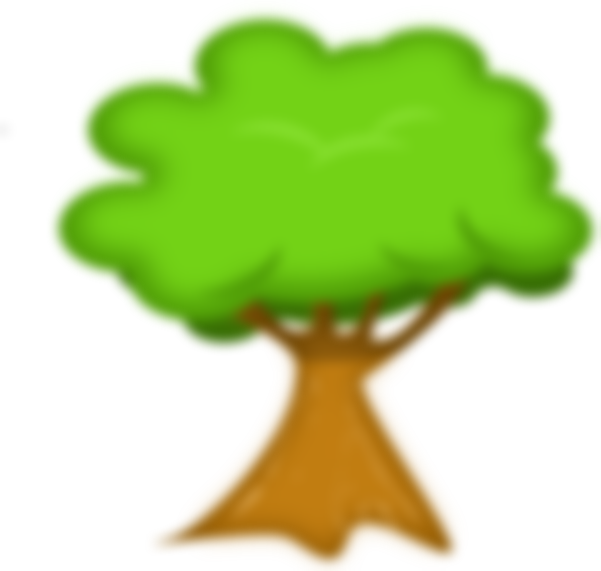
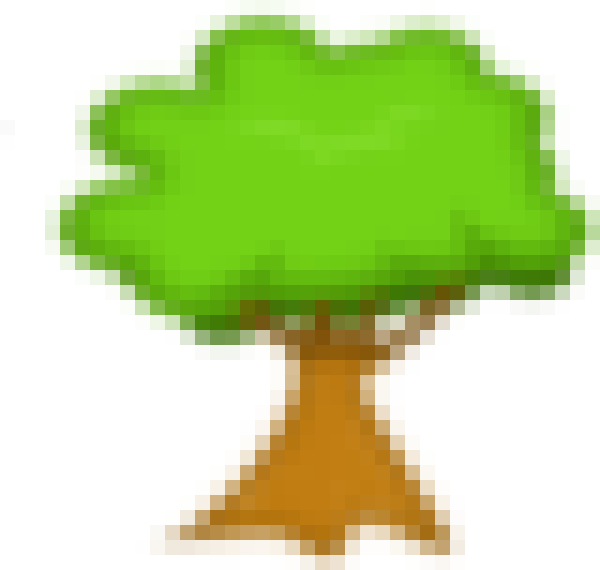
Milestone 3: -Fixed level 3 fireball. Made flags into portals and level 3 flag into a ship. Trees more pixelized.

Changed region(s): [[0.06, 0.0, 1.0, 1.0]]

diff --git a/src/game/GameView.java b/src/game/GameView.java
@@ -18,6 +18,7 @@ public class GameView extends UserView {
     private final Image gheart;
     private final Image ftree;
     private final Image berg;
+    private final Image rock;
     private final Image progress;
     private final Image bosshp1;
     private final Image bosshp2;
@@ -46,6 +47,7 @@ public class GameView extends UserView {
         gheart = new ImageIcon("data/gheart.png").getImage();
         ftree = new ImageIcon("data/ftree.png").getImage();
         berg = new ImageIcon("data/iceberg.png").getImage();
+        rock = new ImageIcon("data/rock.png").getImage();
         progress = new ImageIcon("data/progress.gif").getImage();
         //leaves = new ImageIcon("data/speed.gif").getImage();
         bosshp1 = new ImageIcon("data/bosshp1.png").getImage();
@@ -87,7 +89,8 @@ public class GameView extends UserView {
             g.drawImage(berg, 800, 300, 410, 500, this);
 
         } else if (Game.getLevelBackground() == 3) {
-
+            g.drawImage(rock, -200, 300, 410, 500, this);
+            g.drawImage(rock, 900, 300, 410, 500, this);
         }
 
         if (player.getPlayerHealth() == 3) {

diff --git a/src/game/Level3.java b/src/game/Level3.java
@@ -216,12 +216,10 @@ public class Level3 extends GameLevel
             death = new DeathBall(this);
         }
         if (spawn == 950) {
-            Shape shipShape = new BoxShape(7, 2);
-            StaticBody ship = new StaticBody(this, shipShape);
-            ship.setPosition(new Vec2(18f, -8f));
-            ship.addImage(new BodyImage("data/shipRight.png", 10));
-            ship.setAlwaysOutline(true);
-            getFlag().setPosition(new Vec2(18, -5));
+
+            getFlag().removeAllImages();
+            getFlag().setPosition(new Vec2(16, -5));
+            getFlag().addImage(new BodyImage("data/shipRight.png", 7));
         }
 
 

diff --git a/src/dynamicBody/enemies/DeathBall.java b/src/dynamicBody/enemies/DeathBall.java
@@ -6,7 +6,7 @@ import listeners.collisions.MeteorCollision;
 import org.jbox2d.common.Vec2;
 
 public class DeathBall extends Walker {
-    private static final Shape meteorShape = new BoxShape(40,25);
+    private static final Shape meteorShape = new BoxShape(40,5);
     private static final BodyImage image =
             new BodyImage("data/deathBall.gif", 50);
 
@@ -14,7 +14,7 @@ public class DeathBall extends Walker {
         super(world, meteorShape);
         addImage(image);
         setLinearVelocity(new Vec2(2,0));
-        setPosition(new Vec2(-70,0));
+        setPosition(new Vec2(-70,-2));
         setGravityScale(0f);
 
 

diff --git a/src/staticBody/Flag.java b/src/staticBody/Flag.java
@@ -15,7 +15,7 @@ public class Flag extends StaticBody {
     private static final Shape flagShape = new BoxShape(1f,2f);
 
     private static final BodyImage image =
-            new BodyImage("data/flag.png", 4f);
+            new BodyImage("data/portal.gif", 4f);
 
     public Flag(World world) {
         super(world, flagShape);
